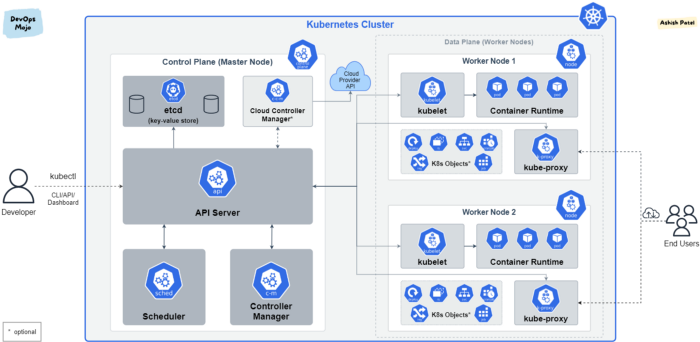
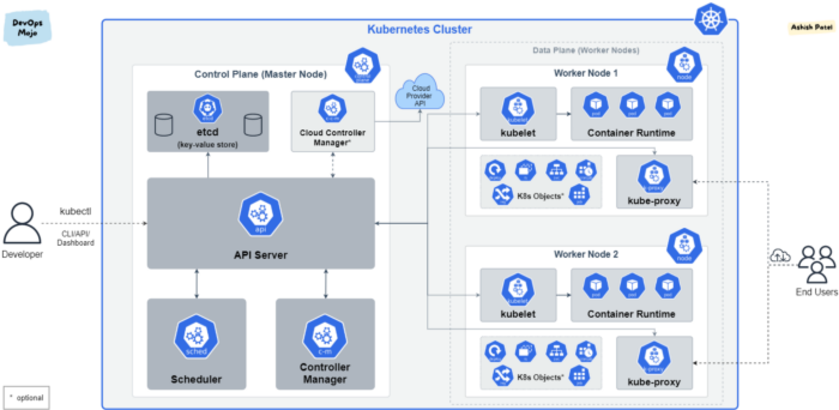
Atualizada a introdução 'Certificações - CKA - Componentes básicos'.

diff --git a/content/pt-br/docs/certificacoes/cka/01_componentes/_index.md b/content/pt-br/docs/certificacoes/cka/01_componentes/_index.md
@@ -8,9 +8,20 @@ resources:
   title: "Image #:counter"
 ---
 
+Um [cluster](https://en.wikipedia.org/wiki/Computer_cluster) Kubernetes consiste em um conjunto de máquinas de trabalho (físicas ou virtuais), chamadas [`Node` ou `Nó`](https://kubernetes.io/docs/concepts/architecture/nodes/) que executam aplicativos em contêiner.
+
+Em essência existem 2 (dois) tipos de nós em um cluster Kubernetes:
+
+- Os `nós workers` que hospedam os Pods que são os componentes da carga de trabalho do aplicativo.
+- Os `nós masters` ou `control plane` que gerenciam os `nós works` e os pods no cluster.
+
+Em ambiente de produção, o `control plane` geralmente é executado em vários computadores e um cluster geralmente executa vários `nós workers` fornecendo tolerância a falhas e alta disponibilidade.
+
+Em ambientes de estudo podemos ter apenas uma máquina exercendo as duas funções.
+
 ## Visão geral da arquitetura de um cluster k8s
 
-{{< imgproc arquitetura_k8s Fill "700x342" >}} {{< /imgproc >}}
+{{< imgproc arquitetura_k8s Fill "839x410" >}} {{< /imgproc >}}
 Fonte.: [Kubernetes — Architecture Overview](https://medium.com/devops-mojo/kubernetes-architecture-overview-introduction-to-k8s-architecture-and-understanding-k8s-cluster-components-90e11eb34ccd).
 
 > Link's úteis:
@@ -18,7 +29,7 @@ Fonte.: [Kubernetes — Architecture Overview](https://medium.com/devops-mojo/ku
 > - [Documentação do Kubernetes - Conceitos - Visão geral](https://kubernetes.io/docs/concepts/overview/)
 > - [Documentação do Kubernetes - Conceitos - Arquitetura de cluster](https://kubernetes.io/docs/concepts/architecture/)
 
-## Componentes do Master Nodes
+## Componentes dos Master Nodes ou Control Plane
 
 ### ETCD
 
